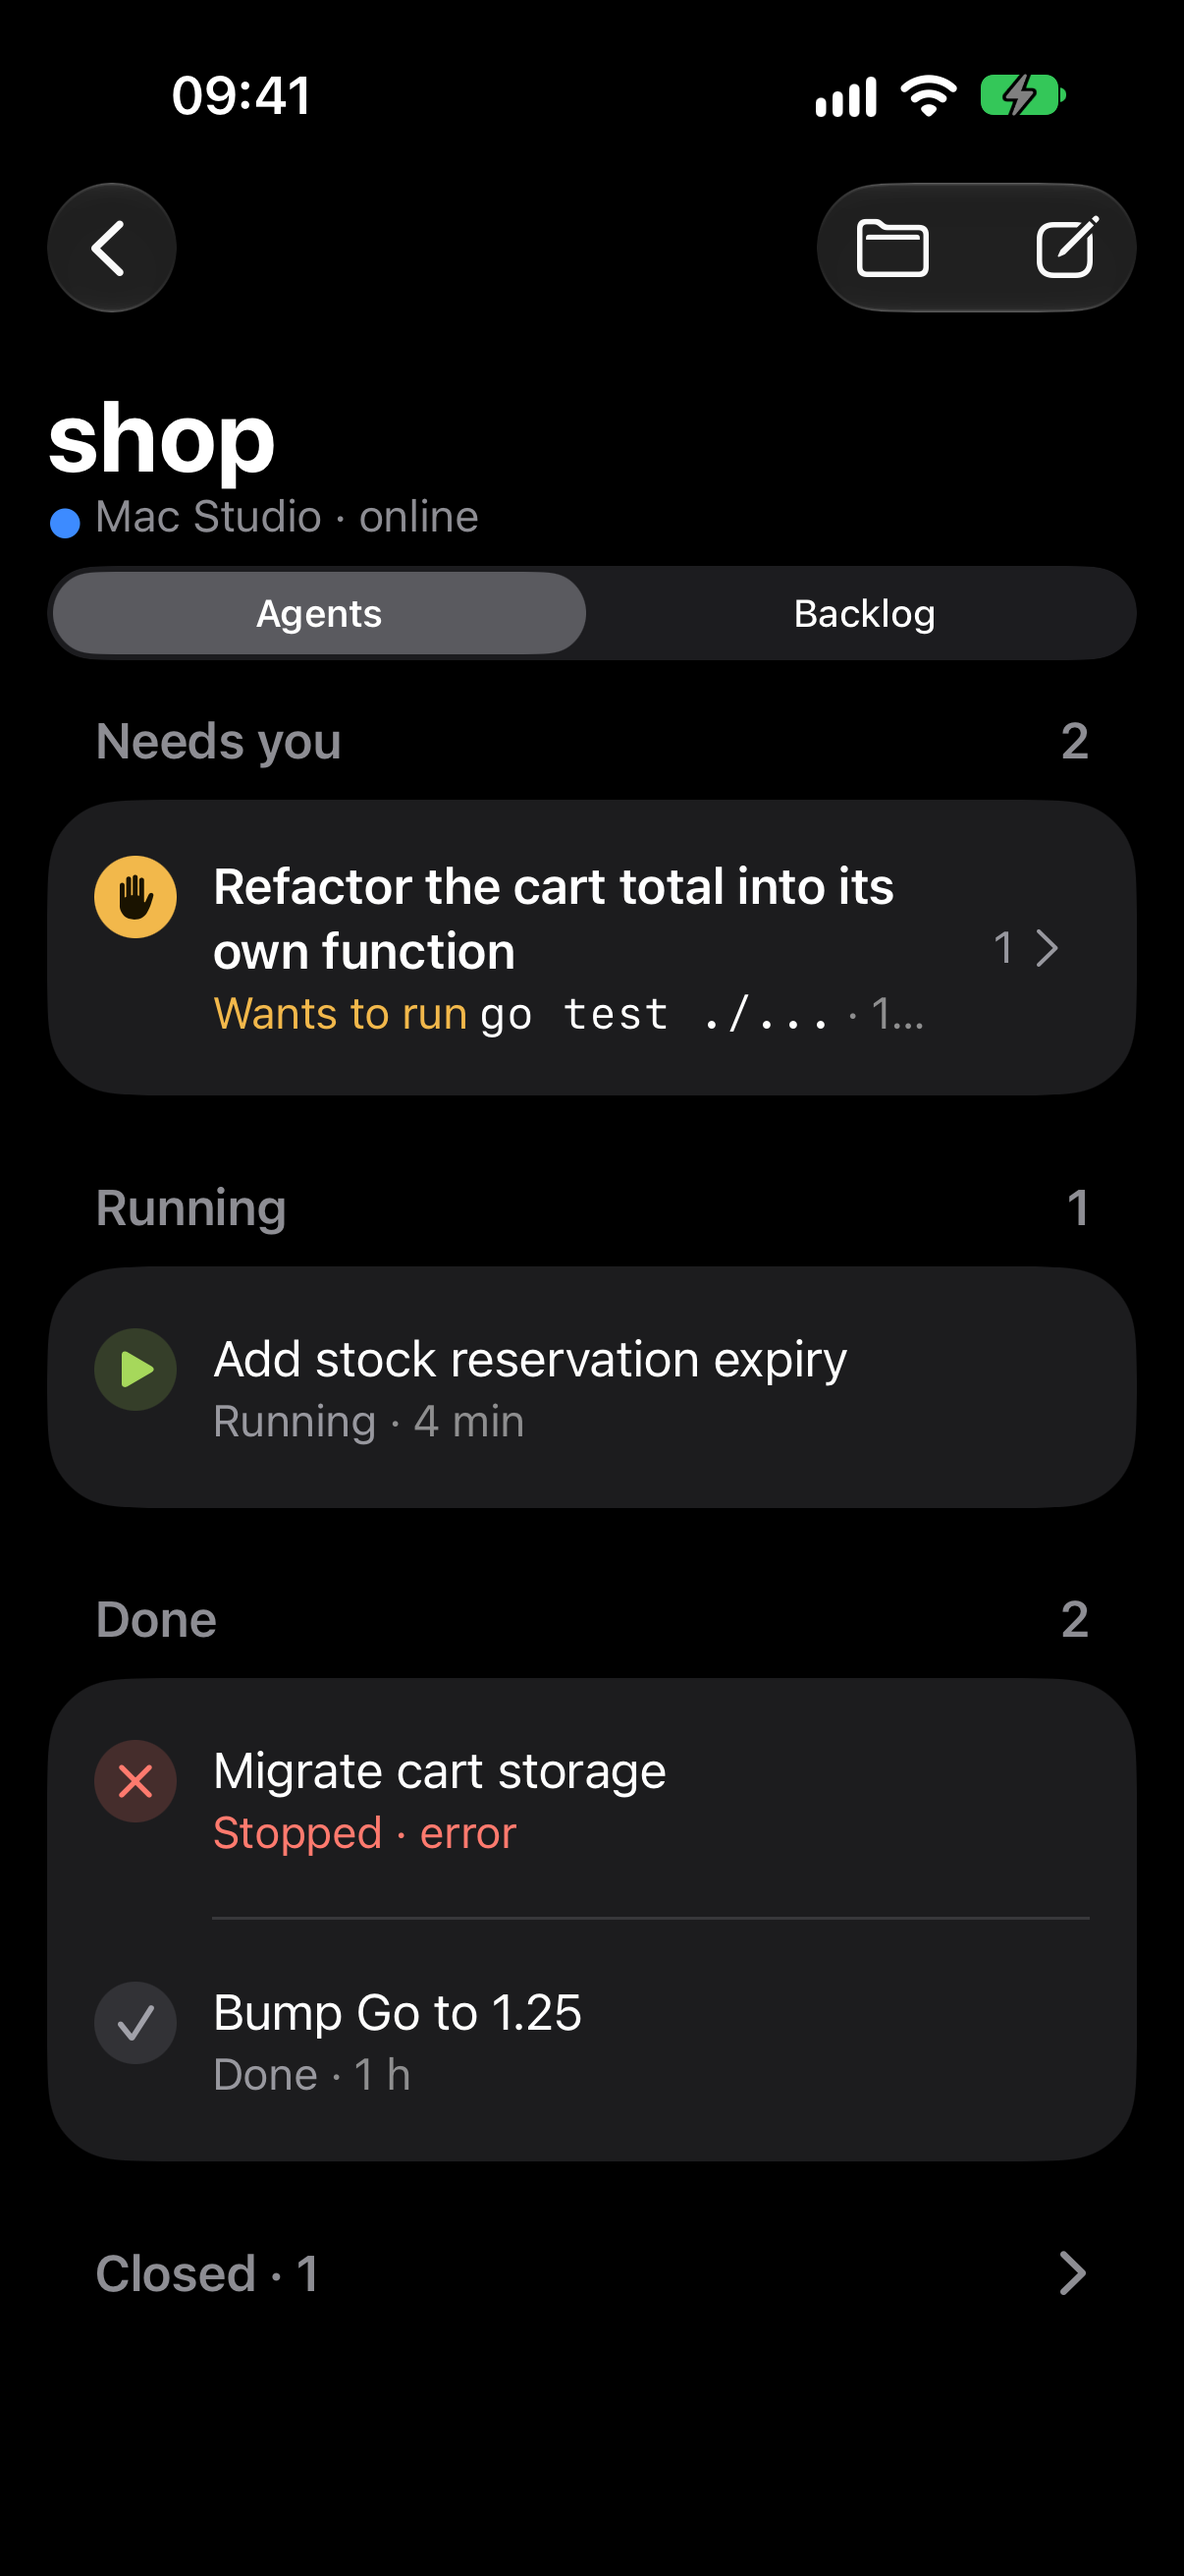
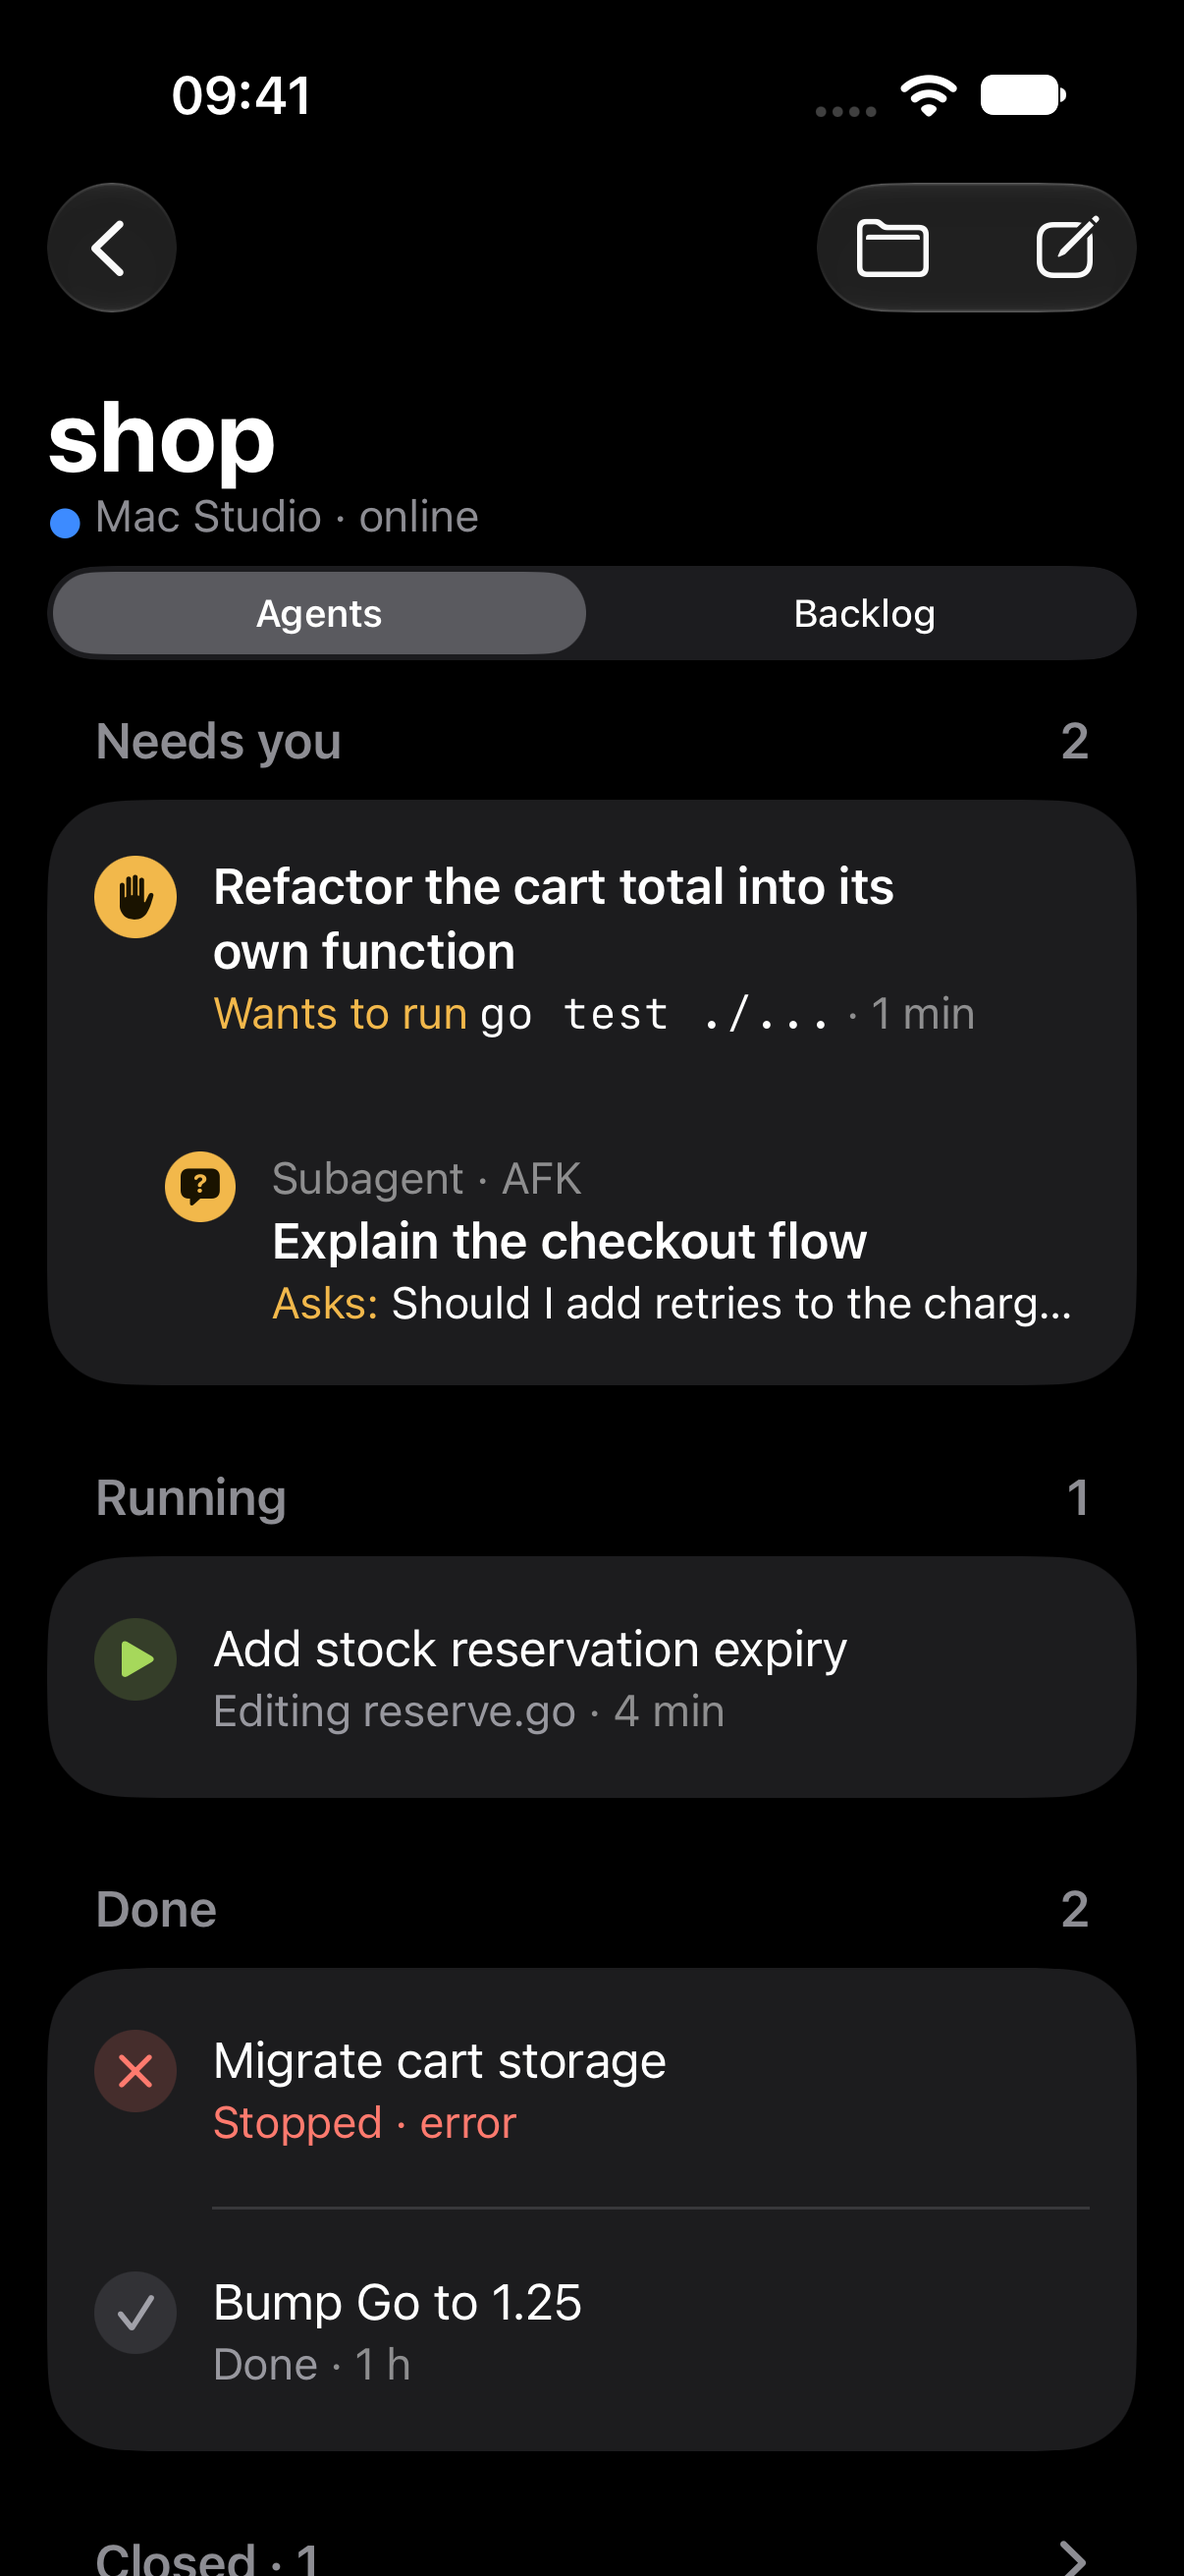
docs(design): re-capture the iPhone companion after the 1 Nov design-check fixes — 15 shots against the C-* boards (Backlog, Backlog-Light and Offline added, stale x-* dropped); notes list the capture args, which fix-list items now match and the gaps left: no › on list rows, taller rows than the boa

diff --git a/design/check/companion/notes.md b/design/check/companion/notes.md
@@ -1,32 +1,42 @@
-# Companion check — 1 Nov 2026, b91c54f2
+# Companion re-check — 1 Nov 2026, d45a8ff7
 
-Debug build (`make companion`), iOS 27.0 simulator, status bar 9:41. Every launch: `-fixtures client/CompanionKit/Tests/CompanionKitTests/Fixtures -autoConfirmPairing YES -pair 'clubmate://pair?v=1&c=ABCDEF&h=100.101.1.2&p=47622&id=mac-mock&n=Mac%20Studio&e=4000000000'` plus the args below. Fresh install per shot.
+Re-capture after the design-check fixes. Debug build (`make companion`), iOS 27.0 simulator, iPhone 18 Pro (402×874 pt, shots 1206×2622 px at 3×; boards are 393×852 at 2×), status bar time 9:41. Fresh install per shot. iPad and Duo are out of scope.
 
-iPhone shots are iPhone 18 Pro, which is 402×874 pt here (1206×2622 px), not the boards' 393×852; the boards are 2×, the shots 3×.
+Every launch: `-fixtures <absolute path>/client/CompanionKit/Tests/CompanionKitTests/Fixtures -autoConfirmPairing YES -pair 'clubmate://pair?v=1&c=ABCDEF&h=100.101.1.2&p=47622&id=mac-mock&n=Mac%20Studio&e=4000000000'` plus the args below. The fixture path must be absolute: the app's working directory in the simulator is `/`, so a relative path reads every fixture as empty ("No sessions", "Couldn't Load the Transcript").
 
-| File | Device | Look | Extra args | Wait |
-|---|---|---|---|---|
-| C-Macs(-Light) | iPhone 18 Pro | dark / light | `-macs 3 -open sidebar` | 22 s |
-| C-Workspace(-Light) | iPhone 18 Pro | dark / light | `-macs 3 -open agents` | 9 s |
-| C-Permission(-Light) | iPhone 18 Pro | dark / light | `-macs 3 -open agents/agt_0000000000000001` | 9 s |
-| C-Question(-Light) | iPhone 18 Pro | dark / light | `-macs 3 -open agents/agt_0000000000000002` | 9 s |
-| C-Inbox(-Light) | iPhone 18 Pro | dark / light | `-macs 3 -open inbox` | 9 s |
-| C-MacInfo(-Light) | iPhone 18 Pro | dark / light | `-macs 3 -open mac` | 9 s |
-| x-Backlog | iPhone 18 Pro | dark | `-macs 3 -open backlog` | 9 s |
-| x-Offline | iPhone 18 Pro | dark | `-offline 4 -open sidebar` (one Mac) | 28 s |
+| File | Look | Extra args | Wait |
+|---|---|---|---|
+| C-Macs(-Light) | dark / light | `-macs 3 -open sidebar` | 22 s |
+| C-Workspace(-Light) | dark / light | `-macs 3 -open agents` | 9 s |
+| C-Permission(-Light) | dark / light | `-macs 3 -open agents/agt_0000000000000001` | 9 s |
+| C-Question(-Light) | dark / light | `-macs 3 -open agents/agt_0000000000000002` | 9 s |
+| C-Inbox(-Light) | dark / light | `-macs 3 -open inbox` | 9 s |
+| C-MacInfo(-Light) | dark / light | `-macs 3 -open mac` | 9 s |
+| C-Backlog(-Light) | dark / light | `-macs 3 -open backlog` | 9 s |
+| C-Offline | dark | `-offline 4 -open sidebar` (one Mac) | 28 s |
+
+Seed data is not counted as a difference: workspace `clubmate` instead of `design-brief`, the extra running Explore subagent ("1 running" on shop), ages, the Explore title carrying its last tool ("· Read cart_test.go"), "3 actions" instead of 2, inbox rows. Needs-you order on Macs and Offline is oldest first by `needsYouSince` (question 25 min → terraform 4 min → go test 1 min), as decided in fix list §3 P2 "Order of Needs you"; the boards' order comes from their own seed ages.
+
+## Per board
+
+- **C-Macs**: matches (Needs you section, waiting in warning ink, Mac sections). MacBook Air is below the fold.
+- **C-Workspace**: matches P0 "Companion workspace list" (subagent nested 24pt, no separator, not folded) and P1 "Running row" ("Editing reserve.go · 4 min"). Real gap: no › on session rows (see below).
+- **C-Permission**: matches decision 1 (title, mono command, "Claude says:", Allow once / Always allow… / Reject, •••), P0 "Stop" (spinner + "Running · 10 s", no Stop button) and P1 banner (neutral surface, outline glyph, names the Mac, pinned above the transcript instead of over it). Differences: the banner has an extra ✕ Dismiss; the Plan card's "Plan · 2 of 3" header is not visible: the transcript opens scrolled to the end and the card's top is clipped under the pinned banner (presumably still rendered — `TranscriptViews.swift` draws it and the board's shorter rows fit it; unverified, no scroll in this pass); the attach button is a paperclip, the board's is a photo glyph.
+- **C-Question**: matches P1 "Started by · ‹parent›" and P2 "Phone bullets". A Needs-you banner for the parent's permission shows above the transcript; the board has none, but the fixture has another pending request, so this is the banner rule working (seed). Placeholder "Answer Claude…" per P2 "Composer placeholder".
+- **C-Inbox**: matches. "Earlier" lists Build finished (10 min, dimmed as read) before Stuck (1 h); the board puts Stuck first. Counted as seed, but if the board's order is meant (unread or by kind first), that is an ordering rule, not seed.
+- **C-MacInfo**: matches content. Real gap: colour rows are ~74 pt tall against the board's 48 pt, so Notifications and Forget this Mac fall below the fold.
+- **C-Backlog**: matches P1 "Backlog, phone" (inset grouped, counts at the right) and P2 "Priority" (neutral `!!` / `↓`). Real gap: no › on task rows.
+- **C-Offline**: matches decision 3 (Needs you stays, dimmed, "Mac Studio is offline — answer when it's back", "as of" rows).
+- **Light**: compared against the Workspace, Permission, Inbox and Backlog light boards; same results as dark, warning glyph fills match the boards' tone.
+
+## Remaining real gaps (not in the fix list)
+
+1. No › disclosure chevron on navigable list rows (Macs workspace/inbox rows, workspace sessions, backlog tasks, Needs-you rows); every board draws one. Present in the previous capture too and not raised in K2, so it may be an accepted divergence rather than a regression.
+2. Row density: list rows are taller than the boards (two-line rows ~80 pt vs ~65 pt, MacInfo colour rows ~74 pt vs 48 pt), which pushes MacInfo's Notifications / Forget this Mac and the Permission Plan header out of view.
+3. Needs-you banner has a ✕ Dismiss the C-Permission board doesn't show.
+4. Composer attach button is a paperclip; the boards use a photo glyph.
 
 ## Not reproduced
 
-- iPad and Fold: left out on purpose, not tested yet.
-- Always-allow confirm: needs a tap; no UI driver used for a capture-only pass.
-- Shots are only what fits on screen: the MacBook Air (offline) section on C-Macs and Notifications / Forget this Mac on C-MacInfo are below the fold.
-- Fixture content differs from the boards (workspace `clubmate` not `design-brief`, an extra Done section, a running Explore subagent, inbox order); not counted as differences below.
-
-## Looks broken or off vs the boards
-
-- Permission / Question: a Needs-you banner ("Move the state bucket… · 1 more") floats under the header and covers the transcript (on C-Permission it overlaps the Plan card). No banner on the boards.
-- Workspace: the subagent row under "Refactor…" is folded into a "1 ›" chevron instead of the nested "Subagent · Explain the checkout flow / Asks: …" row; the "Needs you 2" count then shows one row. Board has no Agents | Backlog control (new in 3e7f3561).
-- Question: no "Started by · Refactor the cart total…" parent card above the transcript; bullets are small grey dots, not the board's full-size text-coloured ones.
-- Permission: card reads "Claude says: Run the shop tests" where the board says "go test isn't in this workspace's allow list."; extra "···" in the card header and a "Sends after the current turn · Stop is in ···" footer; send button is neutral grey (board: dim green).
-- Macs: Needs-you order is question → terraform → go test (board: go test → question → terraform); shop subtitle adds "1 running".
-- Offline (one Mac): the Needs-you section disappears while the Mac is offline although its rows say "2 waiting".
+- Always-allow confirm sheet: needs a tap; no UI driver in a capture-only pass.
+- Shots show only what fits on screen.
